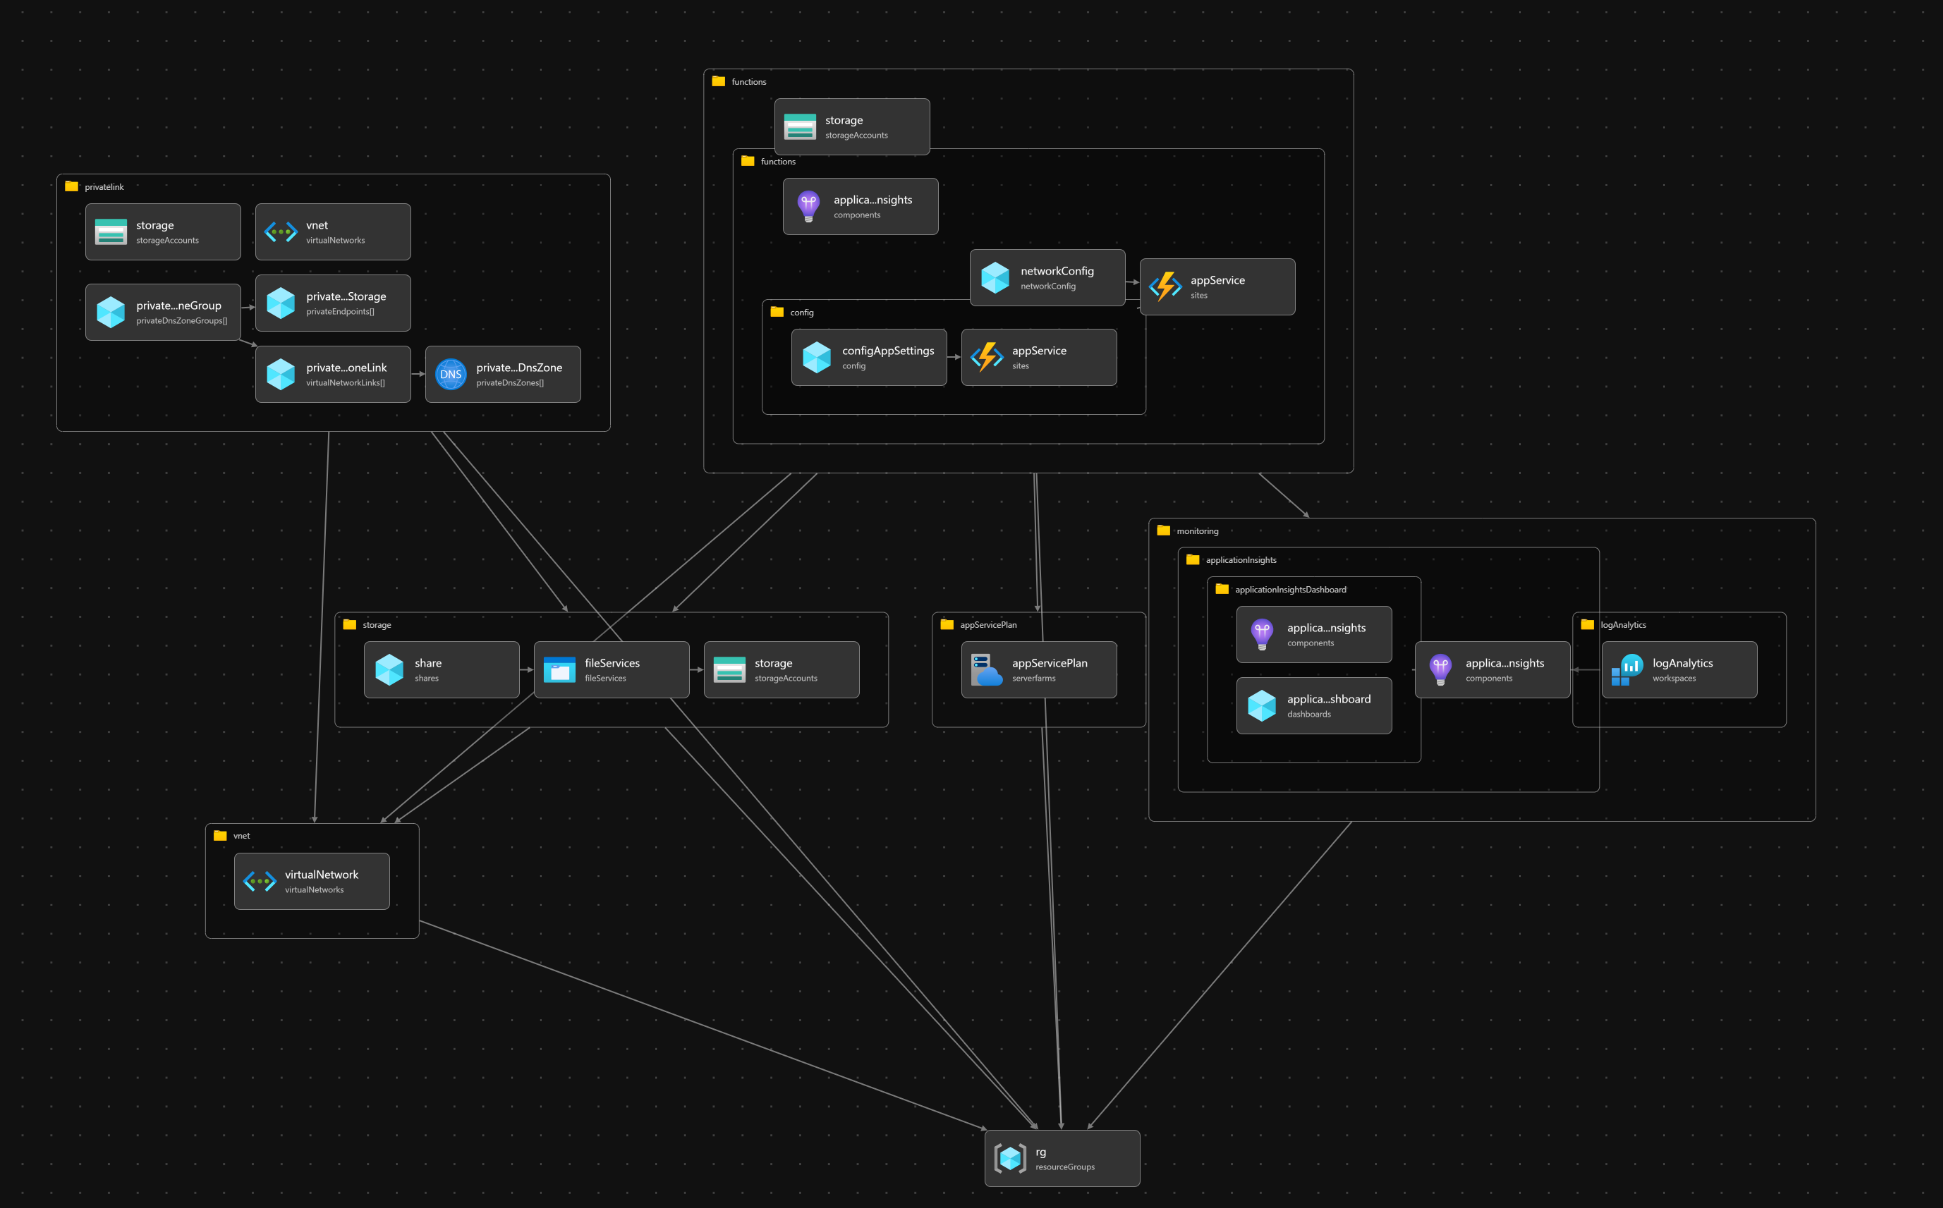
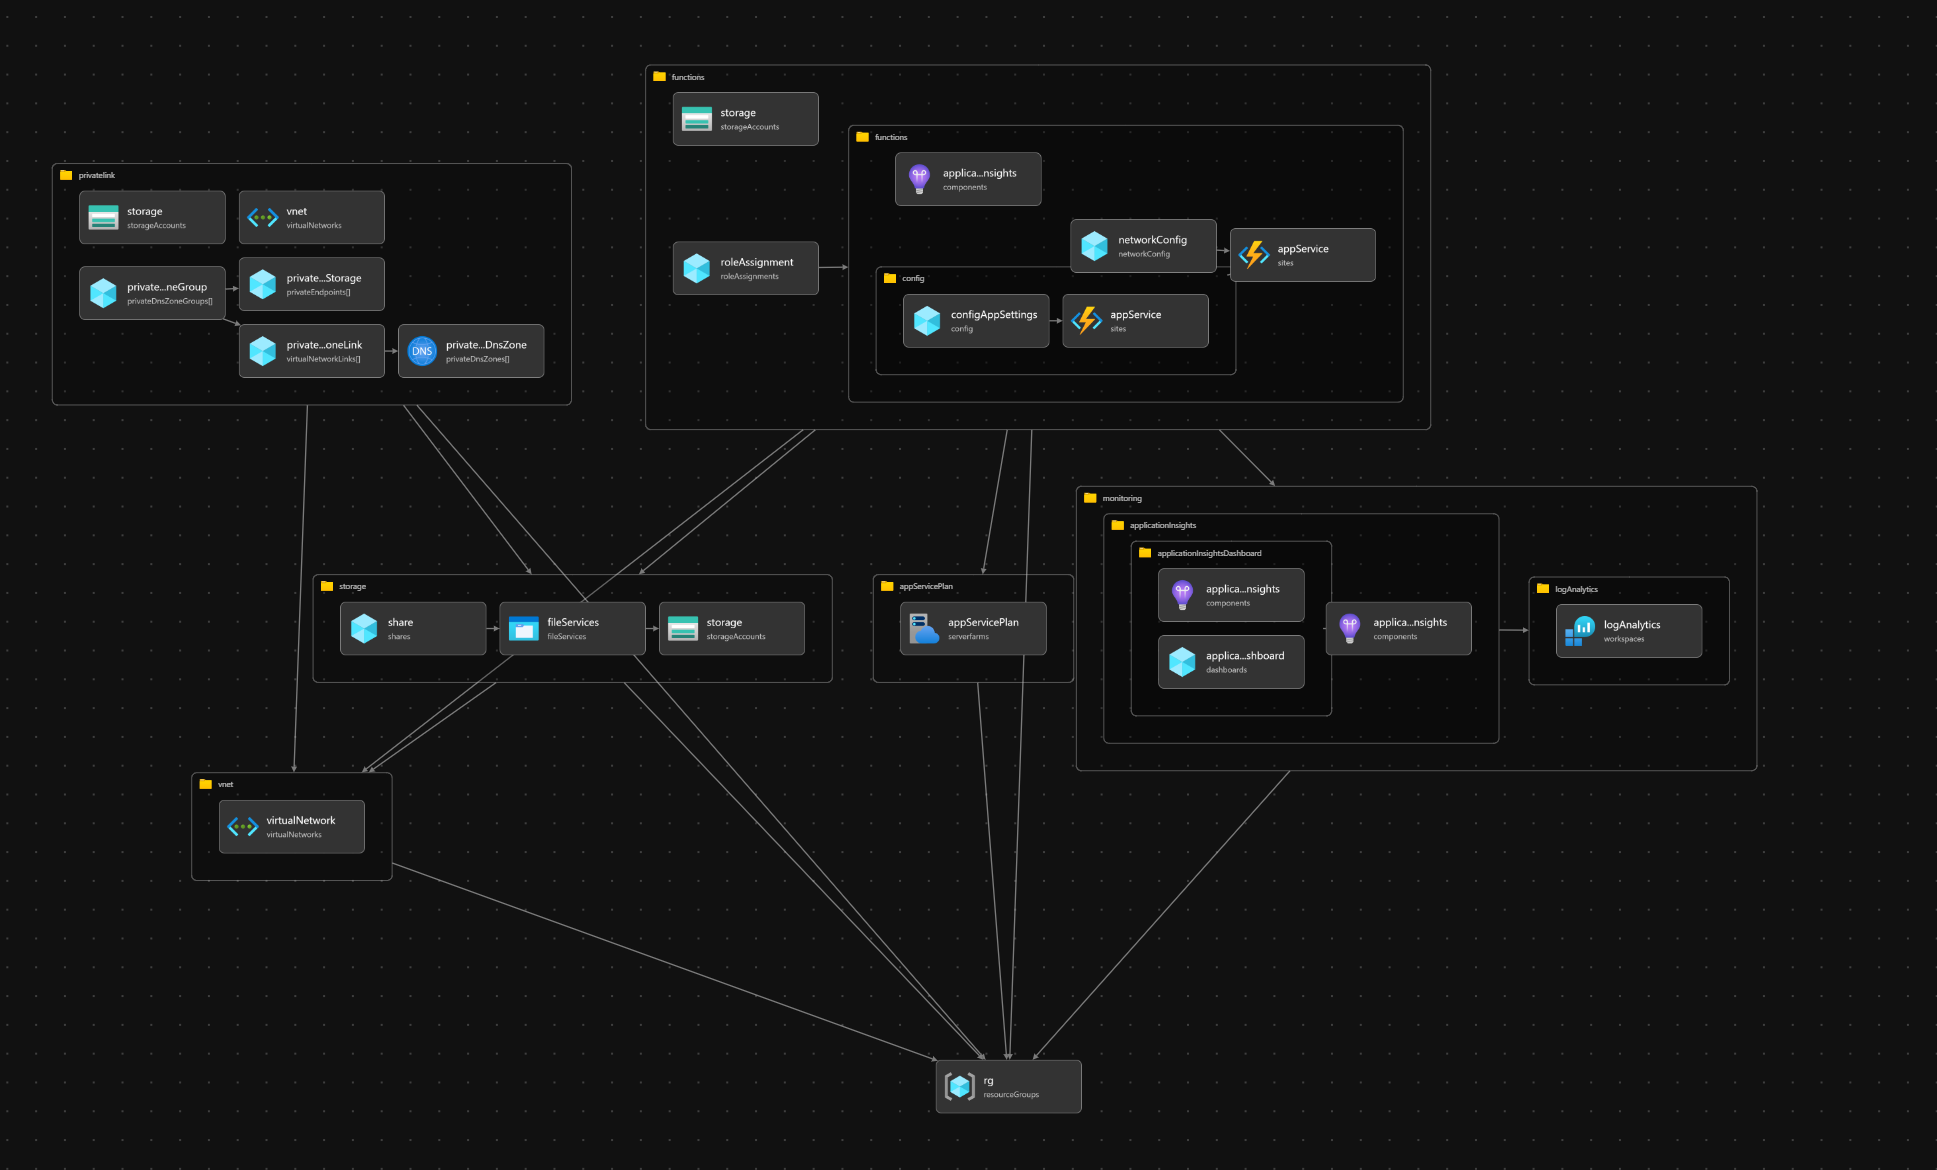
Cleanup

diff --git a/README.md b/README.md
@@ -1,14 +1,64 @@
-# Azure Functions - Managed Identity
+[![Open in GitHub Codespaces](https://img.shields.io/static/v1?style=for-the-badge&label=GitHub+Codespaces&message=Open&color=brightgreen&logo=github)](https://github.com/codespaces/new?hide_repo_select=true&ref=main&repo=427378322&machine=standardLinux32gb&devcontainer_path=.devcontainer%2Fdevcontainer.json&location=WestUs2)
+[![Open in Dev Containers](https://img.shields.io/static/v1?style=for-the-badge&label=Dev%20%20Containers&message=Open&color=blue&logo=visualstudiocode)](https://vscode.dev/redirect?url=vscode://ms-vscode-remote.remote-containers/cloneInVolume?url=https://github.com/rajyraman/PowerApps-Managed-Identity-Demo-Functions)
+
+# Connect to Dataverse from Azure Functions using System Assigned Managed Identity
 
 This is a sample repo to demonstrate how to use Azure Functions System Assigned Managed Identity to connect to Power Apps WebAPI - without any password, secret or certificate.
 
 Blog Post: https://dreamingincrm.com/2021/11/16/connecting-to-dataverse-from-function-app-using-managed-identity/
 
-The above blog post is now obsolete. You can deploy this template using Azure Developer CLI. The command to run is
+**This repo has been updated Aug-2023, so the content in the blog post does not exactly line up with what is currently in the repo.**
 
-`azd up`
+This is a sample repo that shows how to use Bicep to create Function App and how to use the Function App's System Assigned Managed Identity to connect to Dataverse. This application uses the Azure Developer CLI (azd) to deploy all the resources.
 
-This README will be updated by end of this week (1/08/2023) to reflect the correct process. In the meantime please refer the bicep code.
+### Prerequisites
+
+The following prerequisites are required to use this application. Please ensure that you have them all installed locally.
+
+- [Azure Developer CLI](https://aka.ms/azd-install)
+- [.NET SDK 6.0](https://dotnet.microsoft.com/download/dotnet/6.0)
+- [Azure Functions Core Tools (4+)](https://docs.microsoft.com/azure/azure-functions/functions-run-local)
+- [Node.js with npm (16.13.1+)](https://nodejs.org/)
+- [Power Platform CLI](https://learn.microsoft.com/en-au/power-platform/developer/cli/introduction#install-microsoft-power-platform-cli)
+
+If you don't want to install these tools locally you can always run the whole repo locally, using Dev Containers by clicking the Dev Containers button, or entirely in the browser by clicking the GitHub Codespaces button on the top.
+
+### Deploying
+
+The easiest option is to run this single command using Azure Developer CLI.
+
+```powershell
+azd up
+```
+
+This command will deploy the required resources and the Function App's application code as well.
+
+You can also run provisioning first using
+
+```powershell
+azd provision
+```
+
+following by Function App's application code deployment using
+
+```powershell
+azd deploy
+```
+
+All the resources in Azure can be easily cleanup using
+
+```powershell
+azd down
+```
+For the full list of command refer to [azd docs](https://learn.microsoft.com/en-us/azure/developer/azure-developer-cli/reference).
+
+The Function App can be deployed in 1 of 3 possible configurations.
+
+1. Azure Functions in Consumption Plan - This does not have any VNet or Storage level network isolation features. If you are just interesting in testing out how Functions connects to Dataverse as Managed Identity start here.
+2. Azure Function in Elastic Premium with only Service Endpoints and VNet - Storage account is isolated to the VNet and Azure Functions traffic to Storage Account goes via the VNet using public Internet. This is the entry level security in terms of Network traffic. Azure Functions also connects to Storage Account using the Function App's System Assigned Managed Identity. This is controlled by the _createVNet_ parameter.
+3. Azure Function in Elastic Premium with Private Endpoints - Storage Account is isolated to the VNet. Function App communicates with Storage Account using VNet over Private Link connection. Traffic in Private Link goes through Microsoft Backbone not via public internet. Traffic to the Function App still is over the public internet. This is controlled by the _createPrivateLink_ parameter.
+
+This repo has azd [posthooks](hooks/postprovision.ps1) setup. So, the newly provisioned Function App will be automatically added as an Application User with System Administrator role using `pac admin assign-user`.
 
 # Architecture
 
